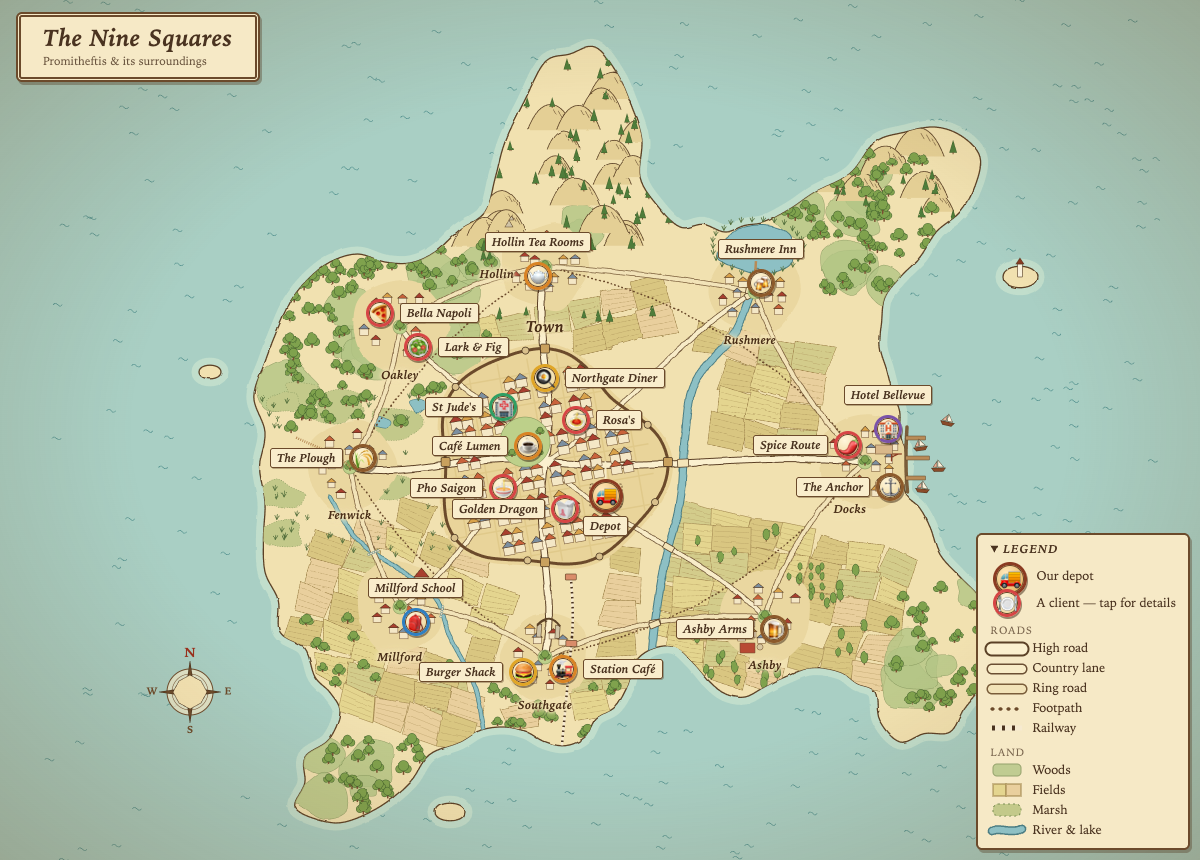
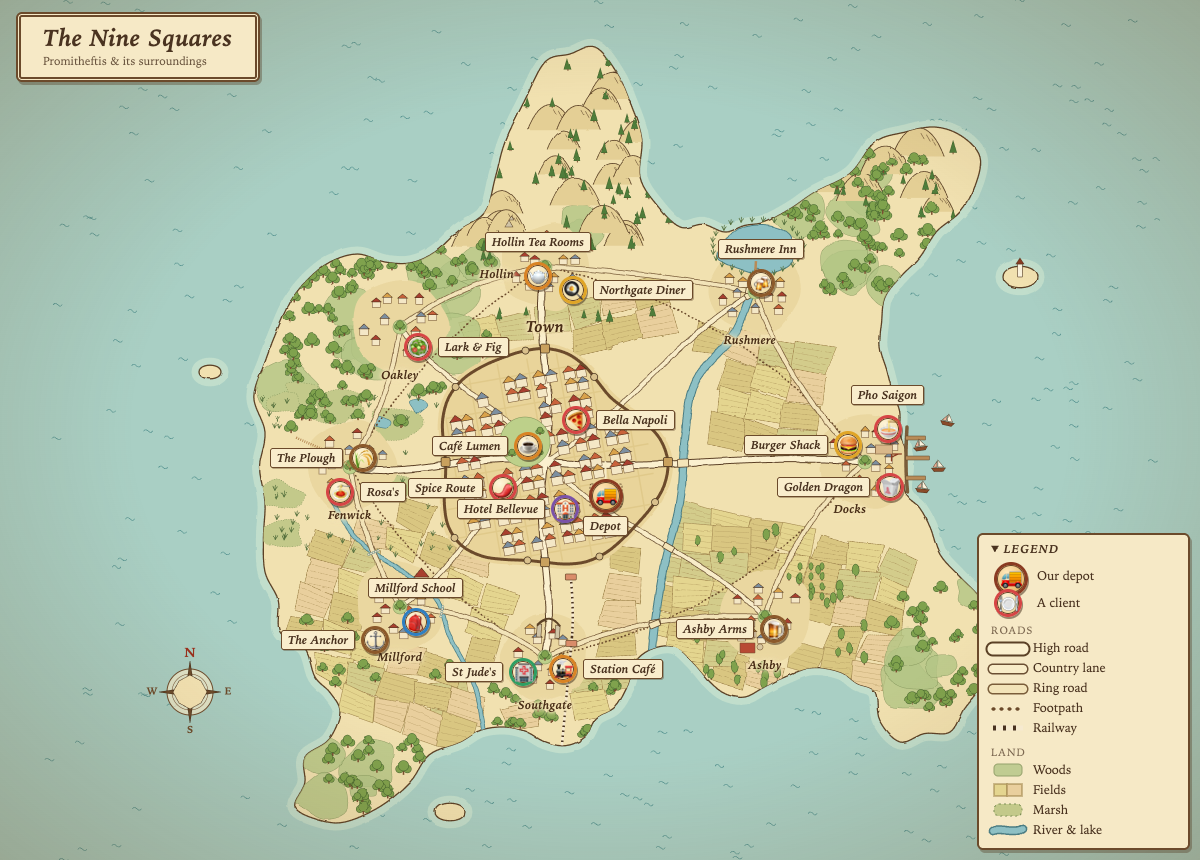
no-mistakes(review): Fix map client pins and soften README map claim

diff --git a/README.md b/README.md
@@ -19,7 +19,7 @@ Left out on purpose: the road, supplier ordering, end of day, customer moods ove
 
 *The Nine Squares: our depot sits in Town, and every client lives somewhere on this little island.*
 
-Promitheftis is an imaginary town on a small island, with eight neighbouring places around it: woods and a lake to the north, fields in the south, a harbour on the east side and a railway line through Southgate. Every restaurant, café and inn in the game has a spot on this map.
+Promitheftis is an imaginary town on a small island, with eight neighbouring places around it: woods and a lake to the north, fields in the south, a harbour on the east side and a railway line through Southgate. Some of the places and clients you will meet are on this map.
 
 ## Run it
 
